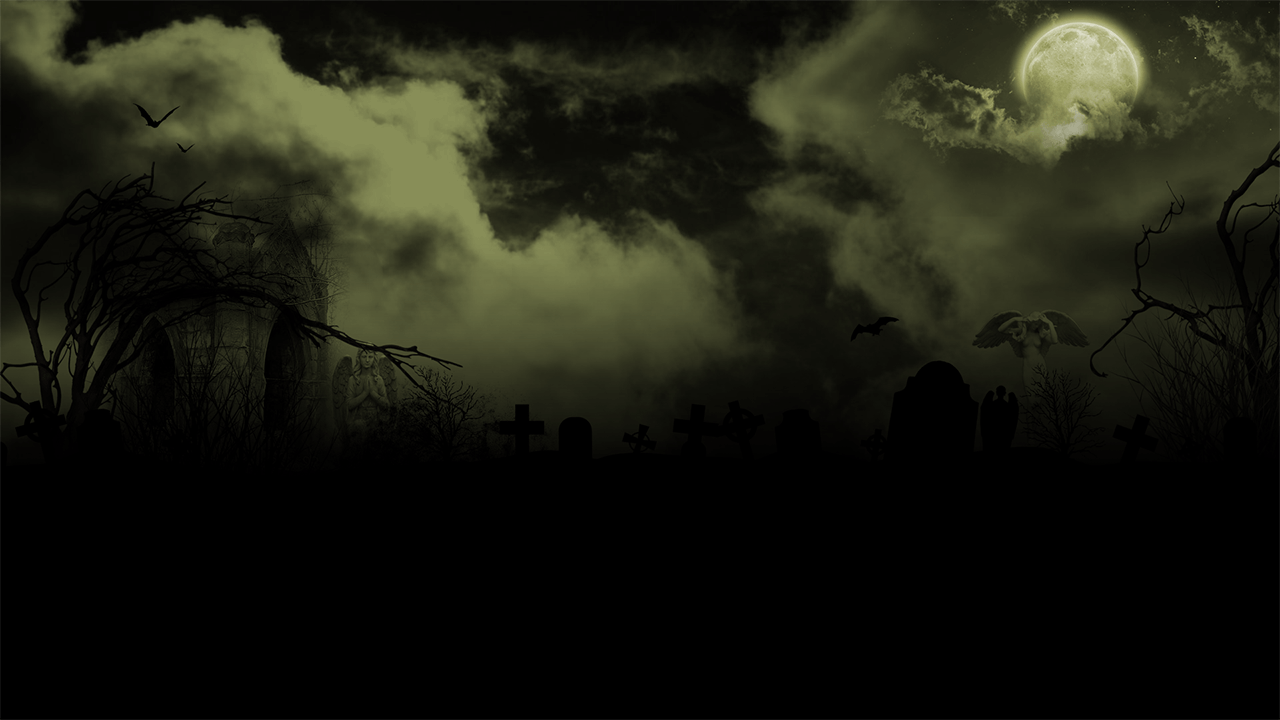
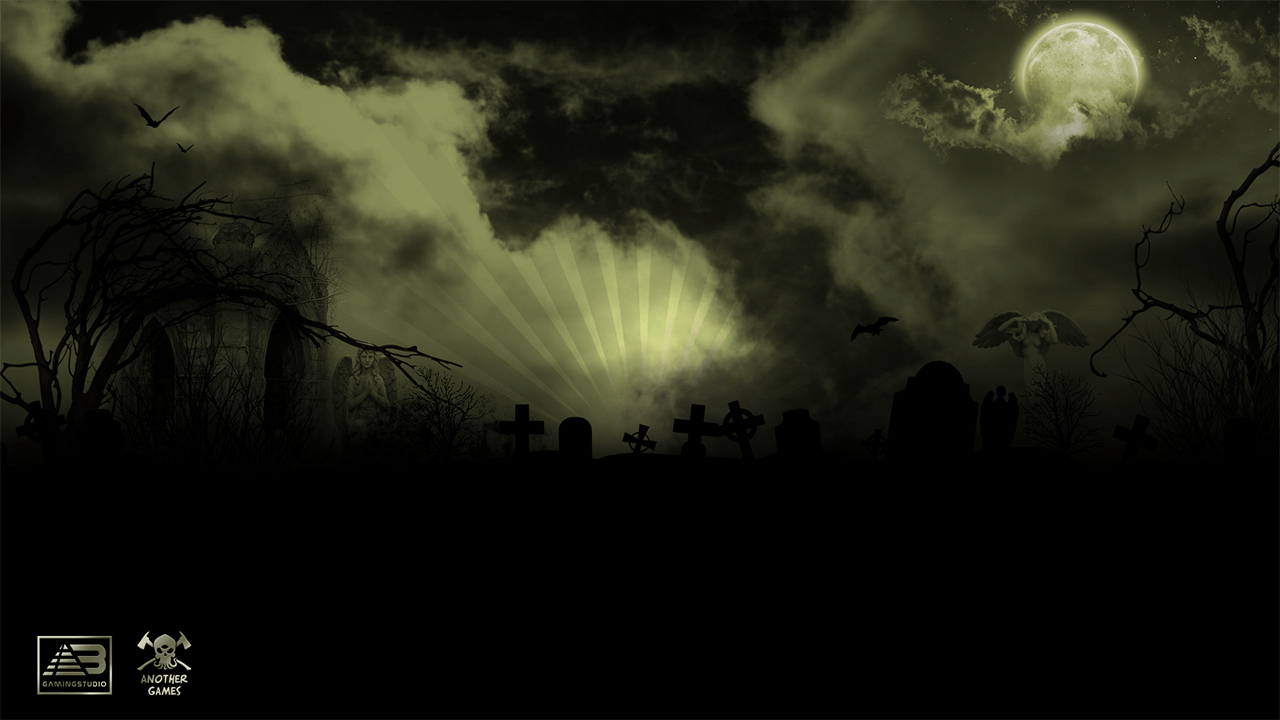
some anim added

Changed region(s): [[0.375, 0.3361, 0.625, 0.6417], [0.0312, 0.8861, 0.1562, 0.9778]]

diff --git a/markup/components/freeSpin/freeSpin.js b/markup/components/freeSpin/freeSpin.js
@@ -327,6 +327,13 @@ export let freeSpin = (function () {
         let tl0 = new TimelineMax();
         tl0.to(transitionFSText, 1, {scaleX: 0.7, scaleY: 0.7, alpha: 1, ease: Elastic.easeOut.config(1, 0.3)})
             .to(transitionWinText, 1, {scaleX: 0.7, scaleY: 0.7, alpha: 1, ease: Elastic.easeOut.config(1, 0.3)}, '-=0.4');
+
+        let tl1 = new TimelineMax({repeat: -1});
+        tl1.to(transitionButton, 0.1, {rotation: -5, ease: Power0.easeNone, delay: 2})
+           .to(transitionButton, 0.1, {rotation: 5, ease: Power0.easeNone})
+           .to(transitionButton, 0.1, {rotation: -5, ease: Power0.easeNone})
+           .to(transitionButton, 0.1, {rotation: 5, ease: Power0.easeNone})
+           .to(transitionButton, 0.1, {rotation: 0, ease: Power0.easeNone});
         // let lines = [];
         // const line = new c.Bitmap(loader.getResult('fonLine')).set({
         //     name: 'line',
@@ -612,6 +619,7 @@ export let freeSpin = (function () {
         tl.to(finishText, 1, {scaleX: 0.7, scaleY: 0.7, alpha: 1, ease: Elastic.easeOut.config(1, 0.3)})
             .to(finishWinText, 1, {scaleX: 0.7, scaleY: 0.7, alpha: 1, ease: Elastic.easeOut.config(1, 0.3)}, '-=0.4');
 
+
         let finishButton = new createjs.Bitmap(loader.getResult('continue')).set({
             name: 'finishButton',
             y: 580,
@@ -621,6 +629,13 @@ export let freeSpin = (function () {
         });
         utils.getCenterPoint(finishButton);
         utils.setInCenterOf(finishButton, utils.width);
+
+        let tl2 = new TimelineMax({repeat: -1});
+        tl2.to(finishButton, 0.1, {rotation: -5, ease: Power0.easeNone, delay: 2})
+        .to(finishButton, 0.1, {rotation: 5, ease: Power0.easeNone})
+        .to(finishButton, 0.1, {rotation: -5, ease: Power0.easeNone})
+        .to(finishButton, 0.1, {rotation: 5, ease: Power0.easeNone})
+        .to(finishButton, 0.1, {rotation: 0, ease: Power0.easeNone});
 
         // let lines = [];
         // const line = new c.Bitmap(loader.getResult('fonLine')).set({
@@ -666,6 +681,8 @@ export let freeSpin = (function () {
                     stage.removeChild(fsBG);
                     const mainBG = bgContainer.getChildByName('mainBG');
                     mainBG.alpha = 1;
+                    const mainBGsecond = bgContainer.getChildByName('mainBGsecond');
+                    mainBGsecond.alpha = 1;
                 });
         });
         stage.addChild(finishContainer);

diff --git a/markup/components/bg/bg.js b/markup/components/bg/bg.js
@@ -34,14 +34,14 @@ export let bg = (function () {
             mainContainer.x = mainContainer.x + 130;
         }
         const mainBG = new c.Bitmap(loader.getResult('mainBG')).set({name: 'mainBG'});
-        // const zaglushka = new c.Bitmap(loader.getResult('zaglushka')).set({name: 'zaglushka', y: 600, scaleX: 0.7, scaleY: 0.7});
-        const mainBGSky = new c.Bitmap(loader.getResult('mainBGSky')).set({name: 'mainBGSky'});
-        const greyBGGradient = new c.Shape().set({
-            name: 'greyBGGradient',
-            alpha: 0
-        });
-        greyBGGradient.graphics.beginLinearGradientFill(['#000', '#FFF'], [0, 1], 0, 0, 0, utils.height).drawRect(0, 0, utils.width, utils.height);
-        TweenMax.to(greyBGGradient, 45, {alpha: 0.8, repeat: -1, yoyo: true, ease: Power4.easeInOut});
+        const mainBGsecond = mainBG.clone().set({name: 'mainBGsecond', x: -1280});
+
+        let tl = new TimelineMax({repeat: -1});
+        tl.to(mainBG, 50, {x: 1280, ease: Power0.easeNone})
+            .to(mainBG, 0, {x: -1280})
+            .to(mainBG, 50, {x: 0, ease: Power0.easeNone})
+            .to(mainBGsecond, 100, {x: 1280, ease: Power0.easeNone}, 0)
+            .to(mainBGsecond, 0, {x: -1280});
 
         const gameBG = new c.Bitmap(loader.getResult('gameBG')).set({
             name: 'gameBG',
@@ -54,17 +54,10 @@ export let bg = (function () {
             y: 5 // Magic Numbers
         });
 
-        bgContainer.addChild(mainBGSky, greyBGGradient, mainBG);
+        bgContainer.addChild(mainBG, mainBGsecond);
         mainContainer.addChild(gameBG, gameMachine);
         stage.addChildAt(bgContainer, mainContainer, 0);
 
-        // addCloud();
-        // addCloud();
-        // addCloud();
-        // addPole();
-
-        // TODO: Разобраться с кешированием бекграундов
-        // TODO: Перенасти отрисовку нижних полосок меню в модуль balance
 
         storage.changeState('bgDraw', 'main');
         events.trigger('bg:main');

diff --git a/markup/components/preloader/manifests.js b/markup/components/preloader/manifests.js
@@ -8,20 +8,21 @@ export const mainManifest = [
     // bg module
     {id: 'mainBG', src: 'static/img/content/bg/mainBG.png'},
     {id: 'gameBG', src: 'static/img/content/bg/gameBG.png'},
-    {id: 'mainBGSky', src: 'static/img/content/bg/mainBGSky.png'},
-    {id: 'luchi', src: 'static/img/content/bg/luchi.png'},
-    {id: 'cloud', src: 'static/img/content/bg/cloud.png'},
+    // {id: 'mainBGSky', src: 'static/img/content/bg/mainBGSky.png'},
+    // {id: 'luchi', src: 'static/img/content/bg/luchi.png'},
+    // {id: 'cloud', src: 'static/img/content/bg/cloud.png'},
     {id: 'gameMachine', src: 'static/img/content/bg/gameMachine.png'},
     {id: 'balance', src: 'static/img/content/balance/balance.json', type: 'spritesheet'},
     {id: 'rules', src: 'static/img/content/bg/firstRules.png'},
     {id: 'home', src: 'static/img/content/new/home.png'},
-    {id: 'fonLine', src: 'static/img/content/bg/fonLine.png'},
+    // {id: 'fonLine', src: 'static/img/content/bg/fonLine.png'},
     // {id: 'zaglushka', src: 'static/img/content/bg/zaglushka.png'},
     // {id: 'pole', src: 'static/img/content/bg/pole.json', type: 'spritesheet'},
 
     // preloader module
     {id: 'preloaderBG', src: 'static/img/content/preloader/preloaderBG.png'},
     {id: 'logo', src: 'static/img/content/preloader/logo.png'},
+    {id: 'logoAG', src: 'static/img/content/preloader/logoAG.png'},
     // {id: 'baraban', src: 'static/img/content/preloader/baraban.json', type: 'spritesheet'},
 
     // buttons module

diff --git a/markup/components/preloader/preloader.js b/markup/components/preloader/preloader.js
@@ -123,7 +123,6 @@ export let preloader = (function () {
         });
         utils.getCenterPoint(preloaderLogo);
 
-
         const preloaderPlay = new c.Bitmap(loader.getResult('play'));
         preloaderPlay.set({
             name: 'preloaderPlay',
@@ -140,6 +139,13 @@ export let preloader = (function () {
         let tl = new TimelineMax();
         tl.to(preloaderLogo, 1, {scaleX: 0.7, scaleY: 0.7, alpha: 1, ease: Elastic.easeOut.config(1, 0.3)})
             .to(preloaderPlay, 1, {scaleX: 0.7, scaleY: 0.7, alpha: 1, ease: Elastic.easeOut.config(1, 0.3)}, '-=0.4');
+
+        let tl2 = new TimelineMax({repeat: -1});
+        tl2.to(preloaderPlay, 0.1, {rotation: -5, ease: Power0.easeNone, delay: 2})
+           .to(preloaderPlay, 0.1, {rotation: 5, ease: Power0.easeNone})
+           .to(preloaderPlay, 0.1, {rotation: -5, ease: Power0.easeNone})
+           .to(preloaderPlay, 0.1, {rotation: 5, ease: Power0.easeNone})
+           .to(preloaderPlay, 0.1, {rotation: 0, ease: Power0.easeNone});
         // let lines = [];
         // const line = new c.Bitmap(loader.getResult('fonLine')).set({
         //     name: 'line',

diff --git a/markup/components/freeSpin/drawFSbg.js b/markup/components/freeSpin/drawFSbg.js
@@ -25,6 +25,8 @@ export function drawFreeSpinsBG() {
     const bgContainer = stage.getChildByName('bgContainer');
     const mainContainer = stage.getChildByName('mainContainer');
     const gameBG = mainContainer.getChildByName('gameBG');
+    const mainBGsecond = bgContainer.getChildByName('mainBGsecond');
+    mainBGsecond.alpha = 0;
     const mainBG = bgContainer.getChildByName('mainBG');
     mainBG.alpha = 0;
 
@@ -40,7 +42,7 @@ export function drawFreeSpinsBG() {
     const fsBG = new c.Bitmap(loader.getResult('fsBG')).set({
         name: 'fsBG'
     });
-    bgContainer.addChildAt(fsBG, bgContainer.getChildIndex(mainBG) + 1);
+    bgContainer.addChildAt(fsBG, bgContainer.getChildIndex(mainBGsecond) + 1);
 
     if (storage.read('device') === 'desktop') {
         const controlsContainer = mainContainer.getChildByName('controlsContainer');
